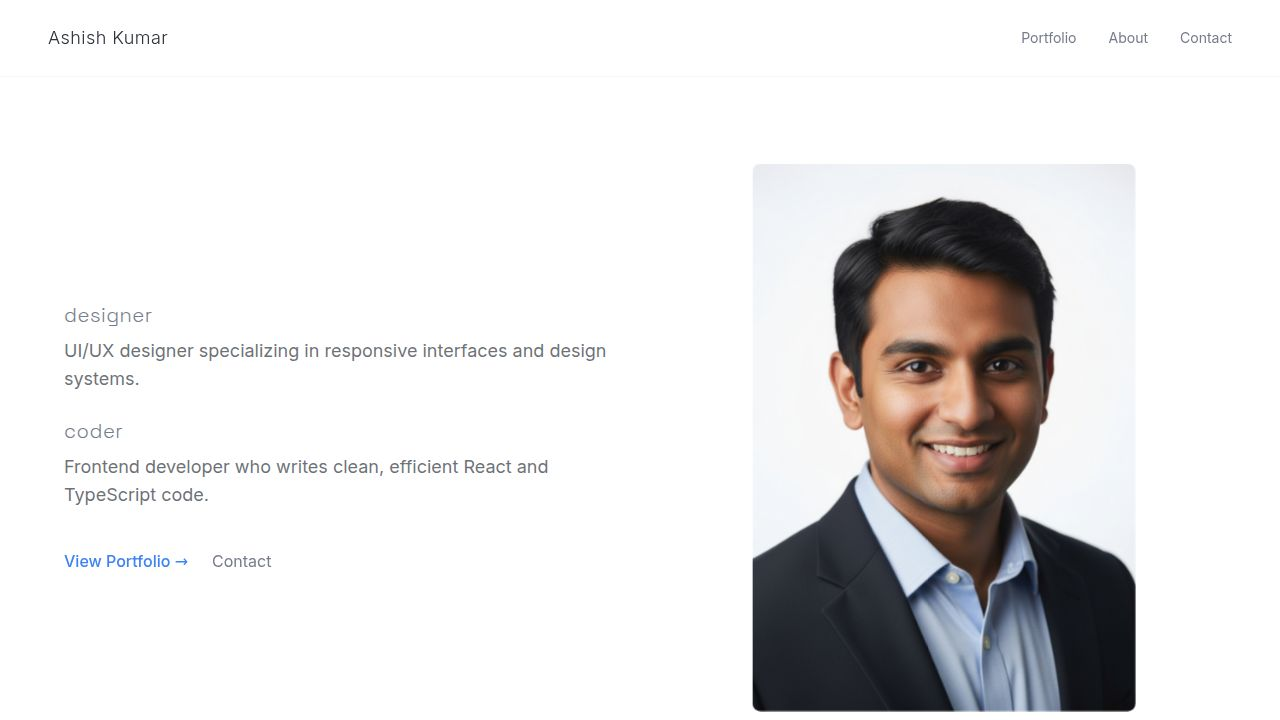
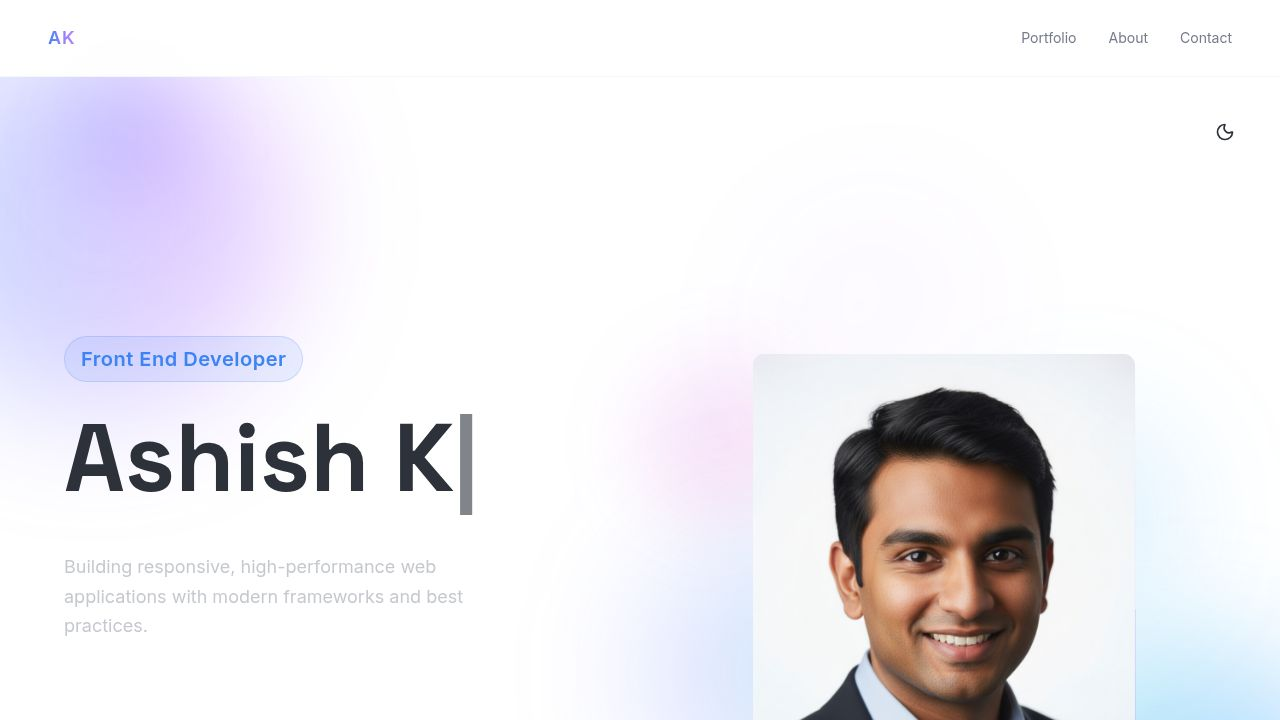
Add animated elements and visual polish to the portfolio
Integrate new components like AnimatedButton, FloatingShapes, and ScrollProgress. Enhance hero section with animated text and button styles. Improve project cards with hover effects and gradient tags. Update overall styling for a more attractive and interactive user experience.

Replit-Commit-Author: Agent
Replit-Commit-Session-Id: b5b4a8f6-7d72-482a-a682-32dc5108492b
Replit-Commit-Checkpoint-Type: full_checkpoint
Replit-Commit-Event-Id: 1f78408a-538d-4ac7-adec-b23b2ef9ce79
Replit-Commit-Screenshot-Url: https://storage.googleapis.com/screenshot-production-us-central1/0171c84c-eb20-49f4-896a-ee2227783934/b5b4a8f6-7d72-482a-a682-32dc5108492b/JYt89jO
Replit-Helium-Checkpoint-Created: true

diff --git a/client/src/components/hero.tsx b/client/src/components/hero.tsx
@@ -6,6 +6,7 @@ import TypingName from "./typing-name";
 import TechIcons from "./tech-icons";
 import AnimatedBackground from "./animated-background";
 import ThemeToggle from "./theme-toggle";
+import AnimatedButton from "./animated-button";
 
 export default function Hero() {
   const [mousePosition, setMousePosition] = useState({ x: 0, y: 0 });
@@ -51,10 +52,10 @@ export default function Hero() {
               <div className="space-y-6">
                 <div>
                   <motion.p
-                    initial={{ opacity: 0 }}
-                    animate={{ opacity: 1 }}
+                    initial={{ opacity: 0, x: -20 }}
+                    animate={{ opacity: 1, x: 0 }}
                     transition={{ delay: 0.2 }}
-                    className="text-xl text-primary font-medium tracking-wide mb-4"
+                    className="text-xl text-primary font-bold tracking-wide mb-4 inline-block px-4 py-2 rounded-full bg-primary/10 border border-primary/20"
                   >
                     Front End Developer
                   </motion.p>
@@ -62,15 +63,15 @@ export default function Hero() {
                     initial={{ opacity: 0 }}
                     animate={{ opacity: 1 }}
                     transition={{ delay: 0.6 }}
-                    className="text-6xl md:text-7xl font-bold leading-tight text-foreground"
+                    className="text-6xl md:text-8xl font-bold leading-tight text-foreground"
                   >
                     <TypingName />
                   </motion.h1>
                 </div>
 
                 <motion.p
-                  initial={{ opacity: 0 }}
-                  animate={{ opacity: 1 }}
+                  initial={{ opacity: 0, y: 10 }}
+                  animate={{ opacity: 1, y: 0 }}
                   transition={{ delay: 0.8 }}
                   className="text-lg text-muted-foreground leading-relaxed max-w-md"
                 >
@@ -81,23 +82,18 @@ export default function Hero() {
                   initial={{ opacity: 0 }}
                   animate={{ opacity: 1 }}
                   transition={{ delay: 1 }}
-                  className="pt-4 flex gap-6"
+                  className="pt-4 flex gap-6 flex-wrap"
                 >
                   <Link href="#projects">
-                    <motion.a
-                      whileHover={{ scale: 1.05 }}
-                      whileTap={{ scale: 0.95 }}
-                      className="text-primary hover:text-primary/70 font-medium transition-colors px-6 py-3 border border-primary rounded-lg"
-                      data-testid="link-portfolio"
-                    >
+                    <AnimatedButton variant="primary">
                       View Portfolio →
-                    </motion.a>
+                    </AnimatedButton>
                   </Link>
                   <motion.a
                     href="#contact"
                     whileHover={{ scale: 1.05 }}
                     whileTap={{ scale: 0.95 }}
-                    className="text-muted-foreground hover:text-foreground transition-colors px-6 py-3 border border-border rounded-lg"
+                    className="text-muted-foreground hover:text-foreground transition-colors px-6 py-3 border border-border rounded-full"
                     data-testid="link-contact-hero"
                   >
                     Contact
@@ -126,13 +122,13 @@ export default function Hero() {
 
               {/* Profile Image */}
               <motion.div
-                className="w-full max-w-sm rounded-lg overflow-hidden"
+                className="w-full max-w-sm rounded-xl overflow-hidden relative"
                 whileHover={{ scale: 1.02 }}
                 transition={{ duration: 0.3 }}
               >
                 <div className="relative">
                   <motion.div
-                    className="absolute inset-0 bg-gradient-to-r from-blue-500/20 to-purple-500/20 rounded-lg"
+                    className="absolute inset-0 bg-gradient-to-r from-blue-500/30 to-purple-500/30 rounded-xl"
                     animate={{
                       opacity: [0.3, 0.6, 0.3],
                     }}
@@ -142,10 +138,24 @@ export default function Hero() {
                       ease: "easeInOut",
                     }}
                   />
+                  <motion.div
+                    className="absolute inset-0 rounded-xl border-2 border-gradient-to-r from-primary via-purple-400 to-cyan-400"
+                    animate={{
+                      boxShadow: [
+                        "0 0 20px rgba(59, 130, 246, 0.3)",
+                        "0 0 40px rgba(168, 85, 247, 0.5)",
+                        "0 0 20px rgba(59, 130, 246, 0.3)",
+                      ],
+                    }}
+                    transition={{
+                      duration: 3,
+                      repeat: Infinity,
+                    }}
+                  />
                   <img
                     src={profileImg}
                     alt="Ashish Kumar"
-                    className="w-full h-auto object-cover relative z-10"
+                    className="w-full h-auto object-cover relative z-10 rounded-xl"
                   />
                 </div>
               </motion.div>

diff --git a/client/src/components/projects.tsx b/client/src/components/projects.tsx
@@ -46,16 +46,15 @@ const containerVariants = {
 
 const itemVariants = {
   hidden: { opacity: 0, y: 40 },
-  visible: (index?: number) => ({
+  visible: {
     opacity: 1,
     y: 0,
     transition: {
       type: "spring" as const,
       stiffness: 100,
       damping: 15,
-      delay: (index || 0) * 0.2,
     },
-  }),
+  },
 };
 
 export default function Projects() {
@@ -79,7 +78,7 @@ export default function Projects() {
           className="mb-20"
         >
           <motion.h2 
-            className="text-5xl md:text-6xl font-light tracking-tight mb-4 bg-gradient-to-r from-foreground to-foreground/60 bg-clip-text text-transparent"
+            className="text-5xl md:text-6xl font-light tracking-tight mb-4 bg-gradient-to-r from-foreground via-primary to-foreground bg-clip-text text-transparent"
             initial={{ opacity: 0 }}
             whileInView={{ opacity: 1 }}
             viewport={{ once: true }}
@@ -104,7 +103,7 @@ export default function Projects() {
           whileInView="visible"
           viewport={{ once: true }}
         >
-          {projects.map((project) => (
+          {projects.map((project, idx) => (
             <motion.div
               key={project.id}
               variants={itemVariants}
@@ -112,10 +111,10 @@ export default function Projects() {
               onClick={() => setLocation(`/project/${project.id}`)}
               className="cursor-pointer"
             >
-              <Card className="border-0 shadow-none bg-transparent group">
+              <Card className="border-0 shadow-none bg-transparent group hover:bg-secondary/30 transition-all duration-300 rounded-2xl p-6">
                 <CardContent className="p-0 grid md:grid-cols-2 gap-12 items-center">
                   <motion.div
-                    whileHover={{ scale: 1.05 }}
+                    whileHover={{ scale: 1.05, rotate: 2 }}
                     transition={{ duration: 0.4 }}
                     className="overflow-hidden rounded-2xl relative"
                   >
@@ -134,7 +133,7 @@ export default function Projects() {
                   <div className="space-y-6">
                     <div>
                       <motion.span 
-                        className="text-sm text-primary font-medium uppercase tracking-widest"
+                        className="text-sm text-primary font-bold uppercase tracking-widest inline-block px-3 py-1 rounded-full bg-primary/10 border border-primary/20"
                         data-testid={`badge-category-${project.id}`}
                         whileHover={{ scale: 1.05 }}
                       >
@@ -146,7 +145,7 @@ export default function Projects() {
                         </span>
                       )}
                       <motion.h3 
-                        className="text-3xl font-light mt-3 mb-4 group-hover:text-primary transition-colors"
+                        className="text-3xl font-bold mt-3 mb-4 group-hover:text-primary transition-colors"
                         data-testid={`heading-project-${project.id}`}
                         whileHover={{ x: 10 }}
                       >
@@ -164,21 +163,19 @@ export default function Projects() {
 
                     <div className="flex items-center justify-between pt-4">
                       <div className="flex gap-3 flex-wrap">
-                        {project.tags.map((tag, idx) => (
+                        {project.tags.map((tag) => (
                           <motion.span 
                             key={tag}
-                            className="text-sm text-muted-foreground border border-border rounded-full px-4 py-2 hover:border-primary hover:text-primary transition-colors"
+                            className="text-sm text-muted-foreground border border-border rounded-full px-4 py-2 hover:border-primary hover:text-primary hover:bg-primary/5 transition-all"
                             data-testid={`tag-${tag.toLowerCase().replace(/[\s.]/g, '-')}`}
-                            initial={{ opacity: 0, scale: 0.8 }}
-                            whileInView={{ opacity: 1, scale: 1 }}
-                            transition={{ delay: idx * 0.05 }}
+                            whileHover={{ scale: 1.1 }}
                           >
                             {tag}
                           </motion.span>
                         ))}
                       </div>
                       <motion.div
-                        whileHover={{ x: 8, y: -8 }}
+                        whileHover={{ x: 8, y: -8, rotate: 45 }}
                         className="text-primary"
                       >
                         <ArrowUpRight className="w-6 h-6" />

diff --git a/client/src/components/floating-shapes.tsx b/client/src/components/floating-shapes.tsx
@@ -1,0 +1,71 @@
+import { motion } from "framer-motion";
+
+export default function FloatingShapes() {
+  return (
+    <div className="fixed inset-0 z-0 pointer-events-none overflow-hidden">
+      {/* Shape 1 */}
+      <motion.div
+        className="absolute w-32 h-32 bg-gradient-to-br from-blue-500/20 to-purple-500/20 rounded-full blur-2xl"
+        animate={{
+          y: [0, 100, 0],
+          x: [0, 50, 0],
+          rotate: [0, 360],
+        }}
+        transition={{
+          duration: 15,
+          repeat: Infinity,
+          ease: "easeInOut",
+        }}
+        style={{ top: "10%", left: "5%" }}
+      />
+
+      {/* Shape 2 */}
+      <motion.div
+        className="absolute w-48 h-48 bg-gradient-to-br from-cyan-500/15 to-blue-500/15 rounded-full blur-3xl"
+        animate={{
+          y: [0, -80, 0],
+          x: [0, -60, 0],
+          rotate: [0, -360],
+        }}
+        transition={{
+          duration: 20,
+          repeat: Infinity,
+          ease: "easeInOut",
+          delay: 2,
+        }}
+        style={{ bottom: "15%", right: "8%" }}
+      />
+
+      {/* Shape 3 */}
+      <motion.div
+        className="absolute w-40 h-40 bg-gradient-to-br from-purple-500/15 to-pink-500/15 rounded-full blur-2xl"
+        animate={{
+          y: [0, 60, 0],
+          x: [0, 80, 0],
+        }}
+        transition={{
+          duration: 18,
+          repeat: Infinity,
+          ease: "easeInOut",
+          delay: 4,
+        }}
+        style={{ top: "50%", left: "50%", transform: "translate(-50%, -50%)" }}
+      />
+
+      {/* Gradient orbs */}
+      <motion.div
+        className="absolute w-72 h-72 bg-gradient-to-br from-indigo-500/10 via-purple-500/10 to-transparent rounded-full blur-3xl"
+        animate={{
+          scale: [1, 1.2, 1],
+          opacity: [0.3, 0.6, 0.3],
+        }}
+        transition={{
+          duration: 12,
+          repeat: Infinity,
+          ease: "easeInOut",
+        }}
+        style={{ top: "25%", right: "20%" }}
+      />
+    </div>
+  );
+}

diff --git a/client/src/components/animated-button.tsx b/client/src/components/animated-button.tsx
@@ -1,0 +1,60 @@
+import { motion } from "framer-motion";
+import { ReactNode } from "react";
+
+interface AnimatedButtonProps {
+  children: ReactNode;
+  onClick?: () => void;
+  className?: string;
+  href?: string;
+  variant?: "primary" | "secondary";
+}
+
+export default function AnimatedButton({
+  children,
+  onClick,
+  className = "",
+  href,
+  variant = "primary",
+}: AnimatedButtonProps) {
+  const baseClass =
+    variant === "primary"
+      ? "bg-gradient-to-r from-primary to-purple-500 text-white"
+      : "border-2 border-primary text-primary hover:bg-primary/10";
+
+  const Component = href ? "a" : "button";
+
+  return (
+    <motion.div
+      whileHover={{ scale: 1.05 }}
+      whileTap={{ scale: 0.95 }}
+      className="inline-block"
+    >
+      <Component
+        href={href}
+        onClick={onClick}
+        className={`relative px-8 py-3 font-bold text-lg rounded-full overflow-hidden transition-all ${baseClass} ${className}`}
+      >
+        <motion.span
+          className="relative z-10 flex items-center gap-2"
+          initial={{ opacity: 0 }}
+          animate={{ opacity: 1 }}
+        >
+          {children}
+        </motion.span>
+
+        {/* Animated background shine */}
+        <motion.div
+          className="absolute inset-0 bg-gradient-to-r from-transparent via-white/20 to-transparent"
+          animate={{
+            x: ["-100%", "100%"],
+          }}
+          transition={{
+            duration: 3,
+            repeat: Infinity,
+            repeatDelay: 2,
+          }}
+        />
+      </Component>
+    </motion.div>
+  );
+}

diff --git a/client/src/pages/home.tsx b/client/src/pages/home.tsx
@@ -1,5 +1,7 @@
 import Nav from "@/components/nav";
 import Hero from "@/components/hero";
+import ScrollProgress from "@/components/scroll-progress";
+import FloatingShapes from "@/components/floating-shapes";
 import AnimatedTechStack from "@/components/animated-tech-stack";
 import Projects from "@/components/projects";
 import Experience from "@/components/experience";
@@ -8,7 +10,9 @@ import Contact from "@/components/contact";
 
 export default function Home() {
   return (
-    <main className="bg-background text-foreground selection:bg-primary selection:text-primary-foreground">
+    <main className="bg-background text-foreground selection:bg-primary selection:text-primary-foreground overflow-x-hidden">
+      <ScrollProgress />
+      <FloatingShapes />
       <Nav />
       <Hero />
       <AnimatedTechStack />

diff --git a/client/src/components/scroll-progress.tsx b/client/src/components/scroll-progress.tsx
@@ -1,0 +1,12 @@
+import { motion, useScroll } from "framer-motion";
+
+export default function ScrollProgress() {
+  const { scrollYProgress } = useScroll();
+
+  return (
+    <motion.div
+      className="fixed top-0 left-0 right-0 h-1 bg-gradient-to-r from-primary via-purple-400 to-cyan-400 origin-left z-50"
+      style={{ scaleX: scrollYProgress }}
+    />
+  );
+}
